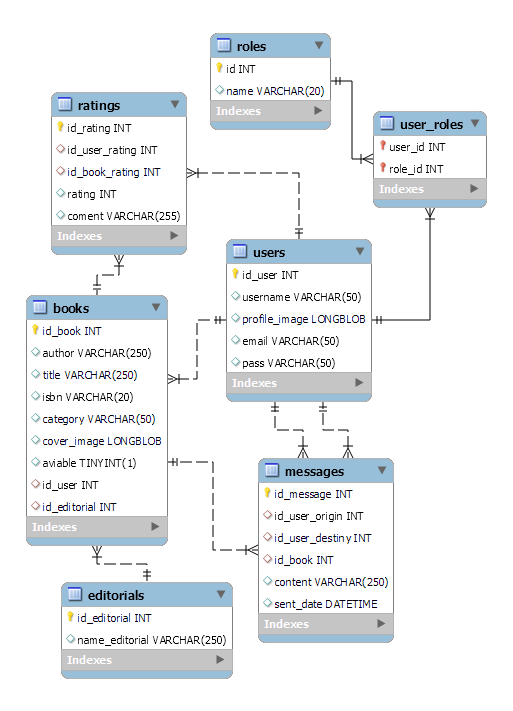
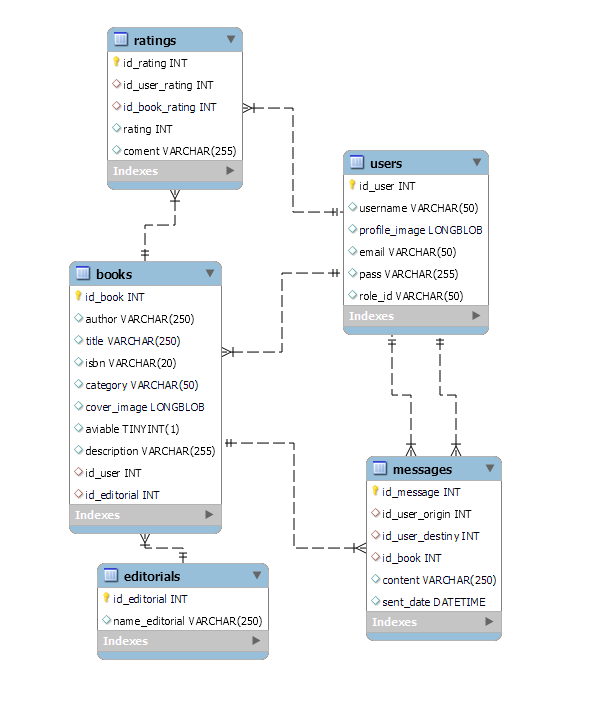
Implement security roles and routes

Changed region(s): [[0.0312, 0.0299, 0.9669, 0.9559], [0.4678, 0.5974, 0.8733, 0.926]]

diff --git a/BookMatch_Backend/src/main/java/com/redarpa/bookmatch/controller/BookController.java b/BookMatch_Backend/src/main/java/com/redarpa/bookmatch/controller/BookController.java
@@ -9,7 +9,6 @@ import java.util.List;
 import javax.imageio.ImageIO;
 
 import org.springframework.beans.factory.annotation.Autowired;
-import org.springframework.security.access.prepost.PreAuthorize;
 import org.springframework.http.MediaType;
 import org.springframework.web.bind.annotation.DeleteMapping;
 import org.springframework.web.bind.annotation.GetMapping;
@@ -51,16 +50,16 @@ public class BookController {
 
 	@Autowired
 	IBookDAO iBookDAO;
-  
-  @PreAuthorize("hasRole('ROLE_ADMIN')")
+
+	// @PreAuthorize("hasRole('ROLE_ADMIN')")
 	@GetMapping("/books")
 	public List<Book> listBooks() {
 		return bookServiceImp.listAllBooks();
 	}
 
 	@PostMapping(value = "/book", consumes = MediaType.MULTIPART_FORM_DATA_VALUE)
-	public Book saveBook(@RequestParam(value = "image", required = false) MultipartFile imageFile, @RequestPart("book") Book book)
-			throws IOException {
+	public Book saveBook(@RequestParam(value = "image", required = false) MultipartFile imageFile,
+			@RequestPart("book") Book book) throws IOException {
 		if (imageFile != null && !imageFile.isEmpty()) {
 			byte[] imageBytes = imageFile.getBytes();
 			Book savedBook = bookServiceImp.saveBookWithImage(book, imageBytes);
@@ -147,16 +146,17 @@ public class BookController {
 	}
 
 	@PutMapping(value = "/book/{id}", consumes = MediaType.MULTIPART_FORM_DATA_VALUE)
-	public Book updateBook(@PathVariable(name = "id") Long id, @RequestParam(value = "image", required = false) MultipartFile imageFile,
-			@RequestPart("book") Book book) throws IOException {
+	public Book updateBook(@PathVariable(name = "id") Long id,
+			@RequestParam(value = "image", required = false) MultipartFile imageFile, @RequestPart("book") Book book)
+			throws IOException {
 		Book selectedBook = bookServiceImp.bookById(id);
 		selectedBook.setAuthor(book.getAuthor());
 		selectedBook.setTitle(book.getTitle());
 		selectedBook.setIsbn(book.getIsbn());
 		selectedBook.setCategory(book.getCategory());
 		selectedBook.setAviable(book.getAviable());
-		selectedBook.setUser(book.getUser());
 		selectedBook.setEditorial(book.getEditorial());
+		selectedBook.setDescription(book.getDescription());
 
 		Book updatedBook;
 		if (imageFile != null && !imageFile.isEmpty()) {
@@ -174,19 +174,15 @@ public class BookController {
 		return updatedBook;
 	}
 
-	@PreAuthorize("hasRole('ROLE_ADMIN')")
+	// @PreAuthorize("hasRole('ROLE_ADMIN')")
 	@DeleteMapping("/book/{id}")
 	public void deleteBook(@PathVariable(name = "id") Long id) {
 		bookServiceImp.deleteBook(id);
 	}
 
 	@GetMapping("/book/isbn/{isbn}")
-	public Book bookByIsbn(@PathVariable(name = "isbn") String isbn) throws IOException {
-
-		Book bookByIsbn = new Book();
-		bookByIsbn = bookServiceImp.bookByIsbn(isbn);
-
-		return bookByIsbn;
+	public List<Book> bookByIsbn(@PathVariable(name = "isbn") String isbn) throws IOException {
+		return bookServiceImp.bookByIsbn(isbn);
 	}
 
 	@GetMapping("/book/author/{author}")
@@ -198,13 +194,13 @@ public class BookController {
 	public List<Book> bookByTitle(@PathVariable(name = "title") String title) throws IOException {
 		return bookServiceImp.bookByTitle(title);
 	}
-  
+
 	@GetMapping("/book/category/{category}")
 	public List<Book> bookByCategory(@PathVariable(name = "category") String category) throws IOException {
 
 		return bookServiceImp.bookByCategory(category);
 	}
-  
+
 	@GetMapping("/books/user/{id}")
 	public List<Book> findBooksByIdUser(@PathVariable(name = "id") Long user) {
 		return bookServiceImp.findBooksByUser(userServiceImp.userById(user));

diff --git a/BookMatch_Backend/src/main/java/com/redarpa/bookmatch/dto/Book.java b/BookMatch_Backend/src/main/java/com/redarpa/bookmatch/dto/Book.java
@@ -47,6 +47,9 @@ public class Book {
 	
 	@Column(name = "aviable")
 	private boolean aviable;
+	
+	@Column(name = "description")
+	private String description;
 
 	@ManyToOne
 	@JoinColumn(name = "id_user")
@@ -65,7 +68,7 @@ public class Book {
 	}
 	
 	public Book(String author, String title, String isbn, String category,
-			boolean aviable, User user, Editorial editorial) {
+			boolean aviable, String description, User user, Editorial editorial) {
 		this.author = author;
 		this.title = title;
 		this.isbn = isbn;
@@ -73,10 +76,11 @@ public class Book {
 		this.aviable = aviable;
 		this.user = user;
 		this.editorial = editorial;
+		this.description = description;
 	}
 	
 	public Book(Long id_book, String author, String title, String isbn, String category, byte[] cover_image,
-			boolean aviable, User user, Editorial editorial) {
+			boolean aviable, String description, User user, Editorial editorial, List<Rating> rating) {
 		this.id_book = id_book;
 		this.author = author;
 		this.title = title;
@@ -84,8 +88,18 @@ public class Book {
 		this.category = category;
 		this.cover_image = cover_image;
 		this.aviable = aviable;
+		this.description = description;
 		this.user = user;
 		this.editorial = editorial;
+		this.rating = rating;
+	}
+
+	public String getDescription() {
+		return description;
+	}
+
+	public void setDescription(String description) {
+		this.description = description;
 	}
 
 	public byte[] getCover_image() {

diff --git a/BookMatch_Backend/src/main/java/com/redarpa/bookmatch/security/WebSecurityConfig.java b/BookMatch_Backend/src/main/java/com/redarpa/bookmatch/security/WebSecurityConfig.java
@@ -6,6 +6,7 @@ package com.redarpa.bookmatch.security;
 import org.springframework.beans.factory.annotation.Autowired;
 import org.springframework.context.annotation.Bean;
 import org.springframework.context.annotation.Configuration;
+import org.springframework.http.HttpMethod;
 import org.springframework.security.authentication.AuthenticationManager;
 import org.springframework.security.authentication.dao.DaoAuthenticationProvider;
 import org.springframework.security.config.annotation.authentication.configuration.AuthenticationConfiguration;
@@ -69,8 +70,10 @@ public class WebSecurityConfig {
 	@Bean
 	public SecurityFilterChain filterChain(HttpSecurity http) throws Exception {
 		http.csrf().disable().sessionManagement().sessionCreationPolicy(SessionCreationPolicy.STATELESS).and()
-				.authorizeHttpRequests().requestMatchers("/auth/**").permitAll().requestMatchers("/api/**")
-				.authenticated().anyRequest().permitAll().and().exceptionHandling()
+				.authorizeHttpRequests().requestMatchers("/auth/**").permitAll()
+				.requestMatchers(HttpMethod.GET, "/api/**").permitAll()
+				.requestMatchers("/api/**").authenticated().anyRequest().permitAll()
+				.and().exceptionHandling()
 				.authenticationEntryPoint(unauthorizedHandler).and().authenticationProvider(authenticationProvider())
 				.addFilterBefore(authenticationJwtTokenFilter(), UsernamePasswordAuthenticationFilter.class);
 

diff --git a/BookMatch_Backend/src/main/java/com/redarpa/bookmatch/service/BookServiceImp.java b/BookMatch_Backend/src/main/java/com/redarpa/bookmatch/service/BookServiceImp.java
@@ -36,11 +36,6 @@ public class BookServiceImp implements IBookService {
 	}
 
 	@Override
-	public Book bookByIsbn(String isbn) {
-		return iBookDAO.findBookByIsbn(isbn);
-	}
-
-	@Override
 	public Book updateBook(Book book) {
 		return iBookDAO.save(book);
 	}
@@ -54,6 +49,12 @@ public class BookServiceImp implements IBookService {
 		return iBookDAO.save(book);
 	}
 
+	@Override
+	public List<Book> bookByIsbn(String isbn) {
+		String formattedISBN= "%" + isbn.toLowerCase() + "%";
+		return iBookDAO.findBookByIsbnLike(formattedISBN);
+	}
+	
 	@Override
 	public List<Book> bookByTitle(String title) {
 		String formattedTitle = "%" + title.toLowerCase() + "%";

diff --git a/BookMatch_Backend/src/main/java/com/redarpa/bookmatch/dao/IBookDAO.java b/BookMatch_Backend/src/main/java/com/redarpa/bookmatch/dao/IBookDAO.java
@@ -13,7 +13,7 @@ import com.redarpa.bookmatch.dto.User;
  */
 
 public interface IBookDAO extends JpaRepository<Book, Long> {
-	public Book findBookByIsbn(String isbn);
+	public List<Book> findBookByIsbnLike(String isbn);
 	public List<Book> findBookByTitleLike(String title);
 	public List<Book> findBookByAuthorLike(String author);
 	public List<Book> findBookByCategoryLike(String category);

diff --git a/BookMatch_Backend/src/main/java/com/redarpa/bookmatch/service/IBookService.java b/BookMatch_Backend/src/main/java/com/redarpa/bookmatch/service/IBookService.java
@@ -17,7 +17,7 @@ public interface IBookService {
 
 	public Book bookById(Long id); // List book by ID
 
-	public Book bookByIsbn(String isbn); // List book by ISBN
+	public List<Book> bookByIsbn(String isbn); // List book by ISBN
 
 	public Book updateBook(Book book); // Update book
 
